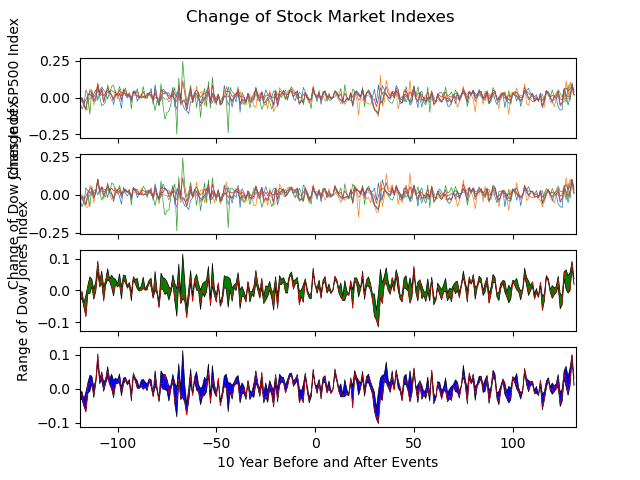
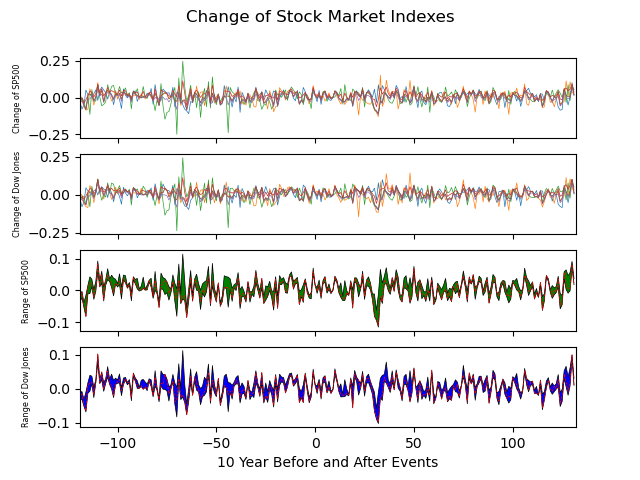
change the fontsize of plot labels

Changed region(s): [[0.0, 0.0312, 0.0625, 0.9062]]

diff --git a/final_project.py b/final_project.py
@@ -692,16 +692,16 @@ def plot_sp_dj(df1: pd.DataFrame, df2: pd.DataFrame, year_num: int, plot_name: s
     fig.suptitle('Change of Stock Market Indexes')
 
     ax1.plot(df1, linewidth=0.5)
-    ax1.set_ylabel("Change of SP500 Index")
+    ax1.set_ylabel("Change of SP500", fontsize = 'xx-small')
 
     ax2.plot(df2, linewidth=0.5)
-    ax2.set_ylabel("Change of Dow Jones Index")
+    ax2.set_ylabel("Change of Dow Jones", fontsize = 'xx-small')
 
     ax3.plot(df1.index, df1["75pct"], color = 'black', label='75% percentile', linewidth=0.5)
     ax3.plot(df1.index, df1["25pct"], color='black', label='25% percentile', linewidth=0.5)
     ax3.plot(df1.index, df1["median"], '--', color='red', label='median', linewidth=0.5)
     ax3.fill_between(df1.index, df1["75pct"], df1["25pct"], facecolor='green')
-    ax3.set_ylabel("Range of SP500 Index")
+    ax3.set_ylabel("Range of SP500", fontsize = 'xx-small')
 
     ax4.plot(df2.index, df2["75pct"], color='black', label='75% percentile', linewidth=0.5)
     ax4.plot(df2.index, df2["25pct"], color='black', label='25% percentile', linewidth=0.5)
@@ -709,7 +709,7 @@ def plot_sp_dj(df1: pd.DataFrame, df2: pd.DataFrame, year_num: int, plot_name: s
     ax4.fill_between(df2.index, df2["75pct"], df2["25pct"], facecolor='blue')
     ax4.set_xlim(-12 * year_num + 1, 12 * (year_num + 1))
     ax4.set_xlabel(str(year_num) + " Year Before and After Events")
-    ax3.set_ylabel("Range of Dow Jones Index")
+    ax4.set_ylabel("Range of Dow Jones", fontsize = 'xx-small')
 
     plt.savefig('Plots/StockIndex/'+ plot_name +'.png')
 
